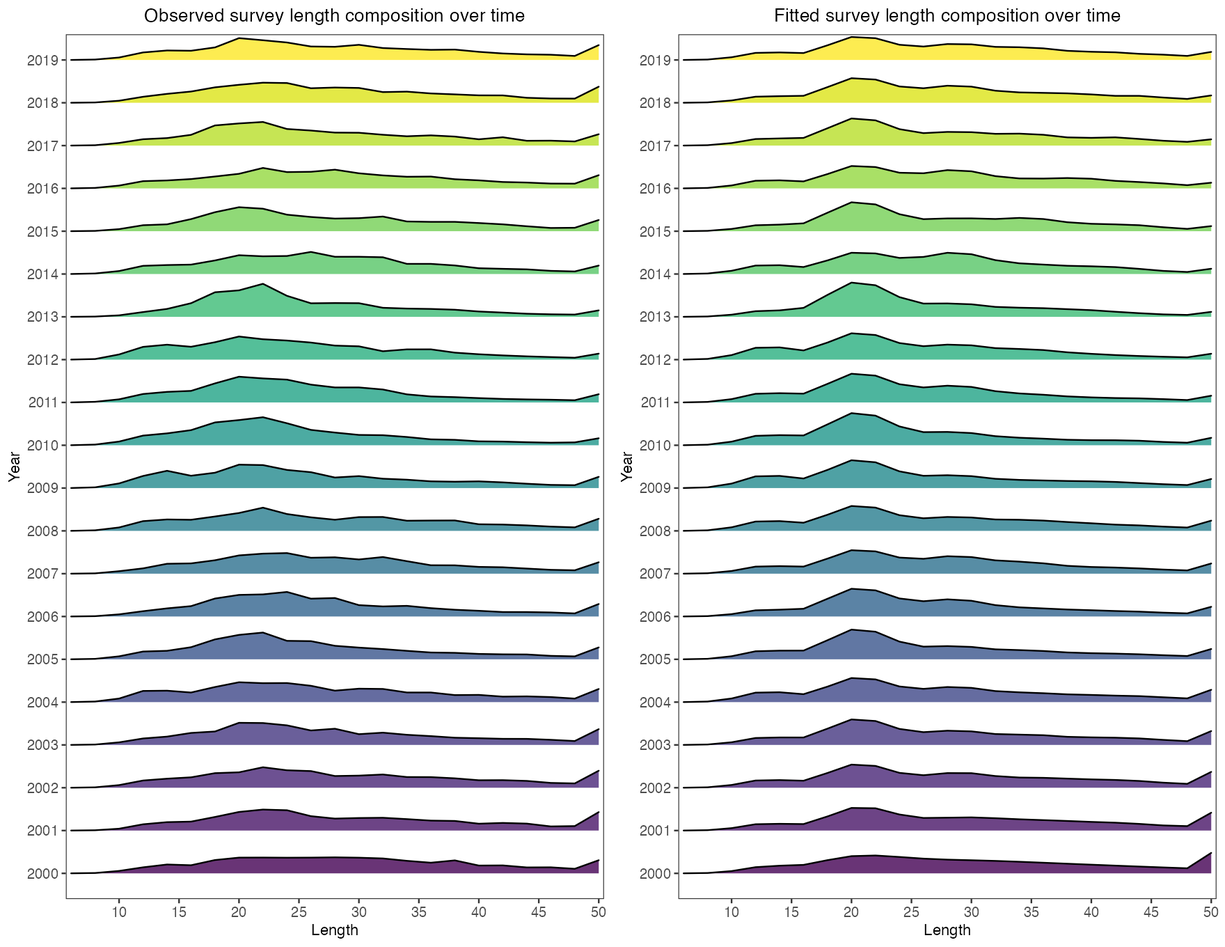
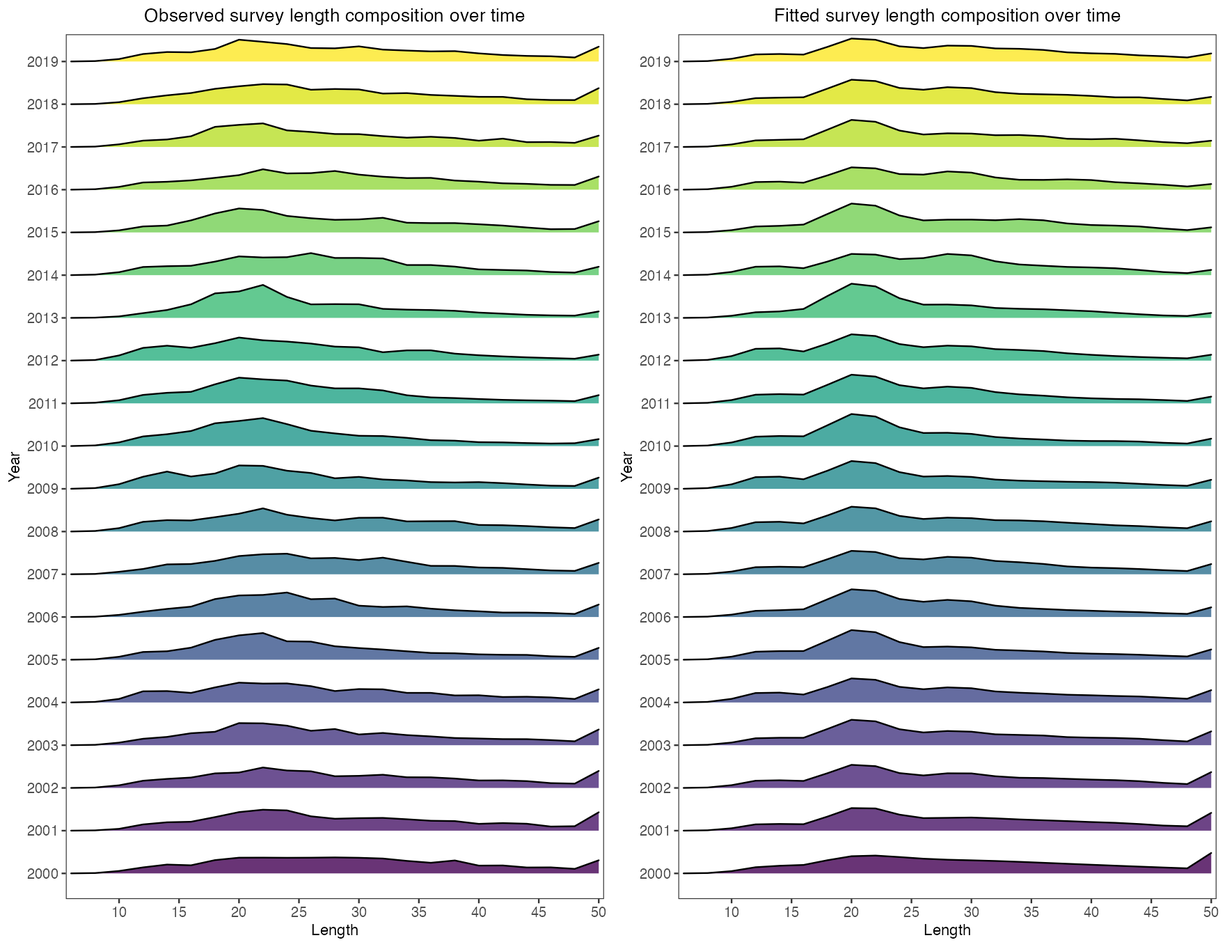
Preserve gaps and alignment in survey diagnostic plots

diff --git a/docs/BOOK.md b/docs/BOOK.md
@@ -1910,11 +1910,15 @@ Each point is the fitted fishing mortality rate divided by the process median. A
 plot_ridges(b) # 默认 viridis 渐变 / Default viridis gradient
 ```
 
-[![长度组成山脊图 / Length composition ridges](https://github.com/FanZhang-LAB-SHOU/ALSCL/blob/main/docs/figures/ytf/ridges.png?raw=true&v=5be1df0903c5)](https://github.com/FanZhang-LAB-SHOU/ALSCL/blob/main/docs/figures/ytf/ridges.png?raw=true&v=5be1df0903c5)
+[![长度组成山脊图 / Length composition ridges](https://github.com/FanZhang-LAB-SHOU/ALSCL/blob/main/docs/figures/ytf/ridges.png?raw=true&v=d0da9259fa6c)](https://github.com/FanZhang-LAB-SHOU/ALSCL/blob/main/docs/figures/ytf/ridges.png?raw=true&v=d0da9259fa6c)
 
 每条曲线表示一个时间步各体长组调查指数的相对组成，左图为观测值，右图为拟合值。2012 年之后，峰值向较大的体长组移动。可比较两图的峰值位置和分布宽度。某期全部缺测时不绘制该期的观测曲线，部分缺测时仅用有观测的体长组计算观测比例。
 
 Each ridge shows the relative survey index across lengths in one time step, with observations on the left and the fit on the right. The peak shifts toward larger lengths after 2012. Compare the position and spread of the distributions. A step with no observations has no observed ridge, and a partially observed step is normalized over the observed bins only.
+
+缺失或被排除的体长组会断开观测轮廓和填色。孤立的观测体长组在缩放后的组成高度处画为点；归一化仍使用该期全部正观测。左右面板使用相同的时间位置、纵轴范围和时间配色，包括完全缺测的时期。`spectral` 等 Brewer 配色也支持只有两个时期的结果。
+
+Missing or excluded length bins break the observed outline and fill. An isolated observed bin is drawn as a point at its scaled composition height; normalization still uses all positive observations in that period. Both panels keep the same time positions, vertical range and time colors, including periods without observations. Brewer palettes such as `spectral` also support two-period results.
 
 [参数及默认值 / Arguments and defaults](https://github.com/FanZhang-LAB-SHOU/ALSCL/blob/main/docs/FUNCTION_REFERENCE.md#plot_ridges)
 
@@ -1978,6 +1982,10 @@ plot_compare_residuals(a, b, dat)
 四个面板显示两组拟合的样本内对数残差：直方图、以正态分布为参照的 QQ 图、各时间步的平均残差及加减一个标准差的误差棒，以及各体长组绝对残差的箱线图。ACL 为深蓝，ALSCL 为朱红。直方图较宽表示离散程度较大；QQ 点偏离参考线表示与参照分布存在差异。绝对残差较大的体长组拟合较差，例如本例 ALSCL 的 16 组和 50 组。标准差误差棒表示残差的离散程度，不是均值的置信区间。
 
 Four panels show the in-sample log residuals of both fits: a histogram, a QQ plot against a normal reference, the mean residual by time step with bars of plus or minus one standard deviation, and box plots of absolute residuals by length bin. ACL is navy and ALSCL vermilion. A wider histogram indicates greater dispersion; deviations from the QQ line indicate differences from the reference distribution. Higher absolute residuals identify poorly fitted bins, including bins 16 and 50 for ALSCL here. The standard-deviation bars describe residual spread, not confidence intervals for the mean.
+
+整期缺测会断开平均残差线，孤立的有效时期仍显示为点。只有该期至少有两个观测体长组时才绘制标准差误差棒；仅有一个观测时仍保留残差点。
+
+A wholly unobserved period breaks the mean-residual line. Isolated observed periods remain visible as points. An SD bar is drawn only when the period contains at least two observed length bins; a single observation still contributes its residual point.
 
 [参数及默认值 / Arguments and defaults](https://github.com/FanZhang-LAB-SHOU/ALSCL/blob/main/docs/FUNCTION_REFERENCE.md#plot_compare_residuals)
 
@@ -3830,6 +3838,10 @@ A plot composition that can be displayed or saved with `ggplot2::ggsave()`.
 
 Comparison plots give distinct default labels to two fits of the same model: for example, `ACL (group_year)` and `ACL (year)`. Explicit distinct `model1_name` and `model2_name` remain supported. Time-series and F plots retain each fit's own calendar, including different time spans. Plots paired with `data.CatL` check known time and length metadata before matching observations to predictions; inconsistent grids are errors. A visual comparison does not establish that likelihoods or biological assumptions are comparable.
 
+整期缺测会断开平均残差线，孤立的有效时期仍显示为点。只有该期至少有两个观测体长组时才绘制标准差误差棒；仅有一个观测时仍保留残差点。
+
+A wholly unobserved period breaks the mean-residual line. Isolated observed periods remain visible as points. An SD bar is drawn only when the period contains at least two observed length bins; a single observation still contributes its residual point.
+
 **示例 / Example:**
 
 ```r
@@ -4361,6 +4373,10 @@ A two-panel composition of observed and fitted length distributions, returned as
 
 `plot_ridges()` and `plot_residuals()` use saved `observations` to preserve the same positive-observation mask as fitting; legacy fits can use their TMB data. NA and excluded zero cells are never converted to artificial observations or zero residuals. A wholly unobserved period has no observed ridge. With partial coverage, the observed ridge is normalized over observed positive cells, whereas predictions cover all bins: do not interpret this as agreement over unobserved bins. These plots work after removing `obj` from a fit that retains `observations`.
 
+缺失或被排除的体长组会断开观测轮廓和填色。孤立的观测体长组在缩放后的组成高度处画为点；归一化仍使用该期全部正观测。左右面板使用相同的时间位置、纵轴范围和时间配色，包括完全缺测的时期。`spectral` 等 Brewer 配色也支持只有两个时期的结果。
+
+Missing or excluded length bins break the observed outline and fill. An isolated observed bin is drawn as a point at its scaled composition height; normalization still uses all positive observations in that period. Both panels keep the same time positions, vertical range and time colors, including periods without observations. Brewer palettes such as `spectral` also support two-period results.
+
 **示例 / Example:**
 
 ```r
@@ -4368,7 +4384,7 @@ A two-panel composition of observed and fitted length distributions, returned as
 plot_ridges(b)
 ```
 
-![示例图 / Example figure: `plot_ridges(b)`](https://github.com/FanZhang-LAB-SHOU/ALSCL/blob/main/docs/figures/ytf/ridges.png?raw=true&v=5be1df0903c5)
+![示例图 / Example figure: `plot_ridges(b)`](https://github.com/FanZhang-LAB-SHOU/ALSCL/blob/main/docs/figures/ytf/ridges.png?raw=true&v=d0da9259fa6c)
 
 [查看实际 YTF 图和解读 / Rendered YTF examples](https://github.com/FanZhang-LAB-SHOU/ALSCL/blob/main/docs/PLOT_GALLERY.md#plot_ridges)。
 

diff --git a/docs/wiki/14-Function-Reference.md b/docs/wiki/14-Function-Reference.md
@@ -1187,6 +1187,10 @@ A plot composition that can be displayed or saved with `ggplot2::ggsave()`.
 
 Comparison plots give distinct default labels to two fits of the same model: for example, `ACL (group_year)` and `ACL (year)`. Explicit distinct `model1_name` and `model2_name` remain supported. Time-series and F plots retain each fit's own calendar, including different time spans. Plots paired with `data.CatL` check known time and length metadata before matching observations to predictions; inconsistent grids are errors. A visual comparison does not establish that likelihoods or biological assumptions are comparable.
 
+整期缺测会断开平均残差线，孤立的有效时期仍显示为点。只有该期至少有两个观测体长组时才绘制标准差误差棒；仅有一个观测时仍保留残差点。
+
+A wholly unobserved period breaks the mean-residual line. Isolated observed periods remain visible as points. An SD bar is drawn only when the period contains at least two observed length bins; a single observation still contributes its residual point.
+
 **示例 / Example:**
 
 ```r
@@ -1718,6 +1722,10 @@ A two-panel composition of observed and fitted length distributions, returned as
 
 `plot_ridges()` and `plot_residuals()` use saved `observations` to preserve the same positive-observation mask as fitting; legacy fits can use their TMB data. NA and excluded zero cells are never converted to artificial observations or zero residuals. A wholly unobserved period has no observed ridge. With partial coverage, the observed ridge is normalized over observed positive cells, whereas predictions cover all bins: do not interpret this as agreement over unobserved bins. These plots work after removing `obj` from a fit that retains `observations`.
 
+缺失或被排除的体长组会断开观测轮廓和填色。孤立的观测体长组在缩放后的组成高度处画为点；归一化仍使用该期全部正观测。左右面板使用相同的时间位置、纵轴范围和时间配色，包括完全缺测的时期。`spectral` 等 Brewer 配色也支持只有两个时期的结果。
+
+Missing or excluded length bins break the observed outline and fill. An isolated observed bin is drawn as a point at its scaled composition height; normalization still uses all positive observations in that period. Both panels keep the same time positions, vertical range and time colors, including periods without observations. Brewer palettes such as `spectral` also support two-period results.
+
 **示例 / Example:**
 
 ```r
@@ -1725,7 +1733,7 @@ A two-panel composition of observed and fitted length distributions, returned as
 plot_ridges(b)
 ```
 
-![示例图 / Example figure: `plot_ridges(b)`](https://github.com/FanZhang-LAB-SHOU/ALSCL/blob/main/docs/figures/ytf/ridges.png?raw=true&v=5be1df0903c5)
+![示例图 / Example figure: `plot_ridges(b)`](https://github.com/FanZhang-LAB-SHOU/ALSCL/blob/main/docs/figures/ytf/ridges.png?raw=true&v=d0da9259fa6c)
 
 [查看实际 YTF 图和解读 / Rendered YTF examples](https://github.com/FanZhang-LAB-SHOU/ALSCL/blob/main/docs/PLOT_GALLERY.md#plot_ridges)。
 

diff --git a/docs/FUNCTION_REFERENCE.md b/docs/FUNCTION_REFERENCE.md
@@ -1183,6 +1183,10 @@ A plot composition that can be displayed or saved with `ggplot2::ggsave()`.
 
 Comparison plots give distinct default labels to two fits of the same model: for example, `ACL (group_year)` and `ACL (year)`. Explicit distinct `model1_name` and `model2_name` remain supported. Time-series and F plots retain each fit's own calendar, including different time spans. Plots paired with `data.CatL` check known time and length metadata before matching observations to predictions; inconsistent grids are errors. A visual comparison does not establish that likelihoods or biological assumptions are comparable.
 
+整期缺测会断开平均残差线，孤立的有效时期仍显示为点。只有该期至少有两个观测体长组时才绘制标准差误差棒；仅有一个观测时仍保留残差点。
+
+A wholly unobserved period breaks the mean-residual line. Isolated observed periods remain visible as points. An SD bar is drawn only when the period contains at least two observed length bins; a single observation still contributes its residual point.
+
 **示例 / Example:**
 
 ```r
@@ -1713,6 +1717,10 @@ A two-panel composition of observed and fitted length distributions, returned as
 `plot_ridges()` 和 `plot_residuals()` 使用保存的 `observations`，保留与拟合一致的正观测掩码；旧结果可读取 TMB 数据。NA 和拟合时排除的零值不会变成人造观测或零残差。整期缺测不绘制观测山脊；部分缺测时，观测比例只在有效正观测中归一化，预测比例则覆盖全部体长组，不能把它解释为未观测组也拟合良好。保留 `observations` 的拟合结果移除 `obj` 后仍可使用这两个绘图函数。
 
 `plot_ridges()` and `plot_residuals()` use saved `observations` to preserve the same positive-observation mask as fitting; legacy fits can use their TMB data. NA and excluded zero cells are never converted to artificial observations or zero residuals. A wholly unobserved period has no observed ridge. With partial coverage, the observed ridge is normalized over observed positive cells, whereas predictions cover all bins: do not interpret this as agreement over unobserved bins. These plots work after removing `obj` from a fit that retains `observations`.
+
+缺失或被排除的体长组会断开观测轮廓和填色。孤立的观测体长组在缩放后的组成高度处画为点；归一化仍使用该期全部正观测。左右面板使用相同的时间位置、纵轴范围和时间配色，包括完全缺测的时期。`spectral` 等 Brewer 配色也支持只有两个时期的结果。
+
+Missing or excluded length bins break the observed outline and fill. An isolated observed bin is drawn as a point at its scaled composition height; normalization still uses all positive observations in that period. Both panels keep the same time positions, vertical range and time colors, including periods without observations. Brewer palettes such as `spectral` also support two-period results.
 
 **示例 / Example:**
 

diff --git a/docs/PLOT_GALLERY.md b/docs/PLOT_GALLERY.md
@@ -705,6 +705,10 @@ plot_ridges(b) # 默认 viridis 渐变 / Default viridis gradient
 
 Each ridge shows the relative survey index across lengths in one time step, with observations on the left and the fit on the right. The peak shifts toward larger lengths after 2012. Compare the position and spread of the distributions. A step with no observations has no observed ridge, and a partially observed step is normalized over the observed bins only.
 
+缺失或被排除的体长组会断开观测轮廓和填色。孤立的观测体长组在缩放后的组成高度处画为点；归一化仍使用该期全部正观测。左右面板使用相同的时间位置、纵轴范围和时间配色，包括完全缺测的时期。`spectral` 等 Brewer 配色也支持只有两个时期的结果。
+
+Missing or excluded length bins break the observed outline and fill. An isolated observed bin is drawn as a point at its scaled composition height; normalization still uses all positive observations in that period. Both panels keep the same time positions, vertical range and time colors, including periods without observations. Brewer palettes such as `spectral` also support two-period results.
+
 [参数及默认值 / Arguments and defaults](FUNCTION_REFERENCE.md#plot_ridges)
 
 <a id="plot_compare_ts"></a>
@@ -758,6 +762,10 @@ plot_compare_residuals(a, b, dat)
 四个面板显示两组拟合的样本内对数残差：直方图、以正态分布为参照的 QQ 图、各时间步的平均残差及加减一个标准差的误差棒，以及各体长组绝对残差的箱线图。ACL 为深蓝，ALSCL 为朱红。直方图较宽表示离散程度较大；QQ 点偏离参考线表示与参照分布存在差异。绝对残差较大的体长组拟合较差，例如本例 ALSCL 的 16 组和 50 组。标准差误差棒表示残差的离散程度，不是均值的置信区间。
 
 Four panels show the in-sample log residuals of both fits: a histogram, a QQ plot against a normal reference, the mean residual by time step with bars of plus or minus one standard deviation, and box plots of absolute residuals by length bin. ACL is navy and ALSCL vermilion. A wider histogram indicates greater dispersion; deviations from the QQ line indicate differences from the reference distribution. Higher absolute residuals identify poorly fitted bins, including bins 16 and 50 for ALSCL here. The standard-deviation bars describe residual spread, not confidence intervals for the mean.
+
+整期缺测会断开平均残差线，孤立的有效时期仍显示为点。只有该期至少有两个观测体长组时才绘制标准差误差棒；仅有一个观测时仍保留残差点。
+
+A wholly unobserved period breaks the mean-residual line. Isolated observed periods remain visible as points. An SD bar is drawn only when the period contains at least two observed length bins; a single observation still contributes its residual point.
 
 [参数及默认值 / Arguments and defaults](FUNCTION_REFERENCE.md#plot_compare_residuals)
 

diff --git a/docs/wiki/09-Growth-and-Mortality.md b/docs/wiki/09-Growth-and-Mortality.md
@@ -268,11 +268,15 @@ Each point is the fitted fishing mortality rate divided by the process median. A
 plot_ridges(b) # 默认 viridis 渐变 / Default viridis gradient
 ```
 
-[![长度组成山脊图 / Length composition ridges](https://github.com/FanZhang-LAB-SHOU/ALSCL/blob/main/docs/figures/ytf/ridges.png?raw=true&v=5be1df0903c5)](https://github.com/FanZhang-LAB-SHOU/ALSCL/blob/main/docs/figures/ytf/ridges.png?raw=true&v=5be1df0903c5)
+[![长度组成山脊图 / Length composition ridges](https://github.com/FanZhang-LAB-SHOU/ALSCL/blob/main/docs/figures/ytf/ridges.png?raw=true&v=d0da9259fa6c)](https://github.com/FanZhang-LAB-SHOU/ALSCL/blob/main/docs/figures/ytf/ridges.png?raw=true&v=d0da9259fa6c)
 
 每条曲线表示一个时间步各体长组调查指数的相对组成，左图为观测值，右图为拟合值。2012 年之后，峰值向较大的体长组移动。可比较两图的峰值位置和分布宽度。某期全部缺测时不绘制该期的观测曲线，部分缺测时仅用有观测的体长组计算观测比例。
 
 Each ridge shows the relative survey index across lengths in one time step, with observations on the left and the fit on the right. The peak shifts toward larger lengths after 2012. Compare the position and spread of the distributions. A step with no observations has no observed ridge, and a partially observed step is normalized over the observed bins only.
+
+缺失或被排除的体长组会断开观测轮廓和填色。孤立的观测体长组在缩放后的组成高度处画为点；归一化仍使用该期全部正观测。左右面板使用相同的时间位置、纵轴范围和时间配色，包括完全缺测的时期。`spectral` 等 Brewer 配色也支持只有两个时期的结果。
+
+Missing or excluded length bins break the observed outline and fill. An isolated observed bin is drawn as a point at its scaled composition height; normalization still uses all positive observations in that period. Both panels keep the same time positions, vertical range and time colors, including periods without observations. Brewer palettes such as `spectral` also support two-period results.
 
 [参数及默认值 / Arguments and defaults](https://github.com/FanZhang-LAB-SHOU/ALSCL/blob/main/docs/FUNCTION_REFERENCE.md#plot_ridges)
 

diff --git a/NEWS.md b/NEWS.md
@@ -1,5 +1,6 @@
 # Unreleased
 
+- Keep gaps in mean-residual comparison lines and observed ridge polygons, show isolated observations, and align ridge panels and time colors. Support Brewer palettes for two-period results; add rendering regression tests and refresh affected figures without gridlines.
 - Use the checked parallel Hessian during optimizer refinement where forked processes are selected, with sequential fallback and per-step method records. Simulate fitted processes without constructing unused derivative tapes; fitting interfaces and model equations are unchanged.
 - Revised some wording to make the documentation more precise.
 - Compare positive survey observations cell by cell before reporting fit metrics or choosing a model by AIC. Protect archives from overlapping writes to the same path.
@@ -14,6 +15,7 @@
 
 ### 简体中文
 
+- 平均残差比较线和观测山脊图在缺测处断开，保留孤立观测，并统一山脊图两栏的坐标与时间配色。Brewer 配色支持两个时期的结果；补充绘图回归测试，重新生成受影响配图并保持无网格线。
 - 选择 fork 进程的会话中，优化收尾使用已验证的并行 Hessian，失败时退回顺序计算，并逐次记录计算方法。拟合过程模拟省去未使用的导数构建；拟合接口和模型方程保持不变。
 - 修订了一些表述，让说明更加精确。
 - 报告拟合指标或按 AIC 选择模型前，逐格核对调查正观测。多个进程向同一路径存档时会检查写入冲突。

diff --git a/docs/wiki/10-Model-Comparisons.md b/docs/wiki/10-Model-Comparisons.md
@@ -60,6 +60,10 @@ plot_compare_residuals(a, b, dat)
 
 Four panels show the in-sample log residuals of both fits: a histogram, a QQ plot against a normal reference, the mean residual by time step with bars of plus or minus one standard deviation, and box plots of absolute residuals by length bin. ACL is navy and ALSCL vermilion. A wider histogram indicates greater dispersion; deviations from the QQ line indicate differences from the reference distribution. Higher absolute residuals identify poorly fitted bins, including bins 16 and 50 for ALSCL here. The standard-deviation bars describe residual spread, not confidence intervals for the mean.
 
+整期缺测会断开平均残差线，孤立的有效时期仍显示为点。只有该期至少有两个观测体长组时才绘制标准差误差棒；仅有一个观测时仍保留残差点。
+
+A wholly unobserved period breaks the mean-residual line. Isolated observed periods remain visible as points. An SD bar is drawn only when the period contains at least two observed length bins; a single observation still contributes its residual point.
+
 [参数及默认值 / Arguments and defaults](https://github.com/FanZhang-LAB-SHOU/ALSCL/blob/main/docs/FUNCTION_REFERENCE.md#plot_compare_residuals)
 
 

diff --git a/website/content/en/articles/model-comparison.md b/website/content/en/articles/model-comparison.md
@@ -45,6 +45,8 @@ plot_compare_residuals(a, b, dat)
 
 Four panels show the in-sample log residuals of both fits: a histogram, a QQ plot against a normal reference, the mean residual by time step with bars of plus or minus one standard deviation, and box plots of absolute residuals by length bin. ACL is navy and ALSCL vermilion. A wider histogram indicates greater dispersion; deviations from the QQ line indicate differences from the reference distribution. Higher absolute residuals identify poorly fitted bins, including bins 16 and 50 for ALSCL here. The standard-deviation bars describe residual spread, not confidence intervals for the mean.
 
+A wholly unobserved period breaks the mean-residual line. Isolated observed periods remain visible as points. An SD bar is drawn only when the period contains at least two observed length bins; a single observation still contributes its residual point.
+
 [Arguments and defaults](https://github.com/FanZhang-LAB-SHOU/ALSCL/blob/main/docs/FUNCTION_REFERENCE.md#plot_compare_residuals)
 
 ## Growth and reference-data interface

diff --git a/website/content/en/articles/growth-mortality.md b/website/content/en/articles/growth-mortality.md
@@ -209,4 +209,6 @@ plot_ridges(b) # Default viridis gradient
 
 Each ridge shows the relative survey index across lengths in one time step, with observations on the left and the fit on the right. The peak shifts toward larger lengths after 2012. Compare the position and spread of the distributions. A step with no observations has no observed ridge, and a partially observed step is normalized over the observed bins only.
 
+Missing or excluded length bins break the observed outline and fill. An isolated observed bin is drawn as a point at its scaled composition height; normalization still uses all positive observations in that period. Both panels keep the same time positions, vertical range and time colors, including periods without observations. Brewer palettes such as `spectral` also support two-period results.
+
 [Arguments and defaults](https://github.com/FanZhang-LAB-SHOU/ALSCL/blob/main/docs/FUNCTION_REFERENCE.md#plot_ridges)

diff --git a/website/content/zh/articles/model-comparison.md b/website/content/zh/articles/model-comparison.md
@@ -45,6 +45,8 @@ plot_compare_residuals(a, b, dat)
 
 四个面板显示两组拟合的样本内对数残差：直方图、以正态分布为参照的 QQ 图、各时间步的平均残差及加减一个标准差的误差棒，以及各体长组绝对残差的箱线图。ACL 为深蓝，ALSCL 为朱红。直方图较宽表示离散程度较大；QQ 点偏离参考线表示与参照分布存在差异。绝对残差较大的体长组拟合较差，例如本例 ALSCL 的 16 组和 50 组。标准差误差棒表示残差的离散程度，不是均值的置信区间。
 
+整期缺测会断开平均残差线，孤立的有效时期仍显示为点。只有该期至少有两个观测体长组时才绘制标准差误差棒；仅有一个观测时仍保留残差点。
+
 [参数及默认值](https://github.com/FanZhang-LAB-SHOU/ALSCL/blob/main/docs/FUNCTION_REFERENCE.md#plot_compare_residuals)
 
 ## 生长与外部参照接口

diff --git a/website/content/zh/articles/growth-mortality.md b/website/content/zh/articles/growth-mortality.md
@@ -209,4 +209,6 @@ plot_ridges(b) # 默认 viridis 渐变
 
 每条曲线表示一个时间步各体长组调查指数的相对组成，左图为观测值，右图为拟合值。2012 年之后，峰值向较大的体长组移动。可比较两图的峰值位置和分布宽度。某期全部缺测时不绘制该期的观测曲线，部分缺测时仅用有观测的体长组计算观测比例。
 
+缺失或被排除的体长组会断开观测轮廓和填色。孤立的观测体长组在缩放后的组成高度处画为点；归一化仍使用该期全部正观测。左右面板使用相同的时间位置、纵轴范围和时间配色，包括完全缺测的时期。`spectral` 等 Brewer 配色也支持只有两个时期的结果。
+
 [参数及默认值](https://github.com/FanZhang-LAB-SHOU/ALSCL/blob/main/docs/FUNCTION_REFERENCE.md#plot_ridges)

diff --git a/website/content/en/news.md b/website/content/en/news.md
@@ -1,5 +1,6 @@
 ## Unreleased
 
+- Keep gaps in mean-residual comparison lines and observed ridge polygons, show isolated observations, and align ridge panels and time colors. Support Brewer palettes for two-period results; add rendering regression tests and refresh affected figures without gridlines.
 - Use the checked parallel Hessian during optimizer refinement where forked processes are selected, with sequential fallback and per-step method records. Simulate fitted processes without constructing unused derivative tapes; fitting interfaces and model equations are unchanged.
 - Revised some wording to make the documentation more precise.
 - Compare positive survey observations cell by cell before reporting fit metrics or choosing a model by AIC. Protect archives from overlapping writes to the same path.
